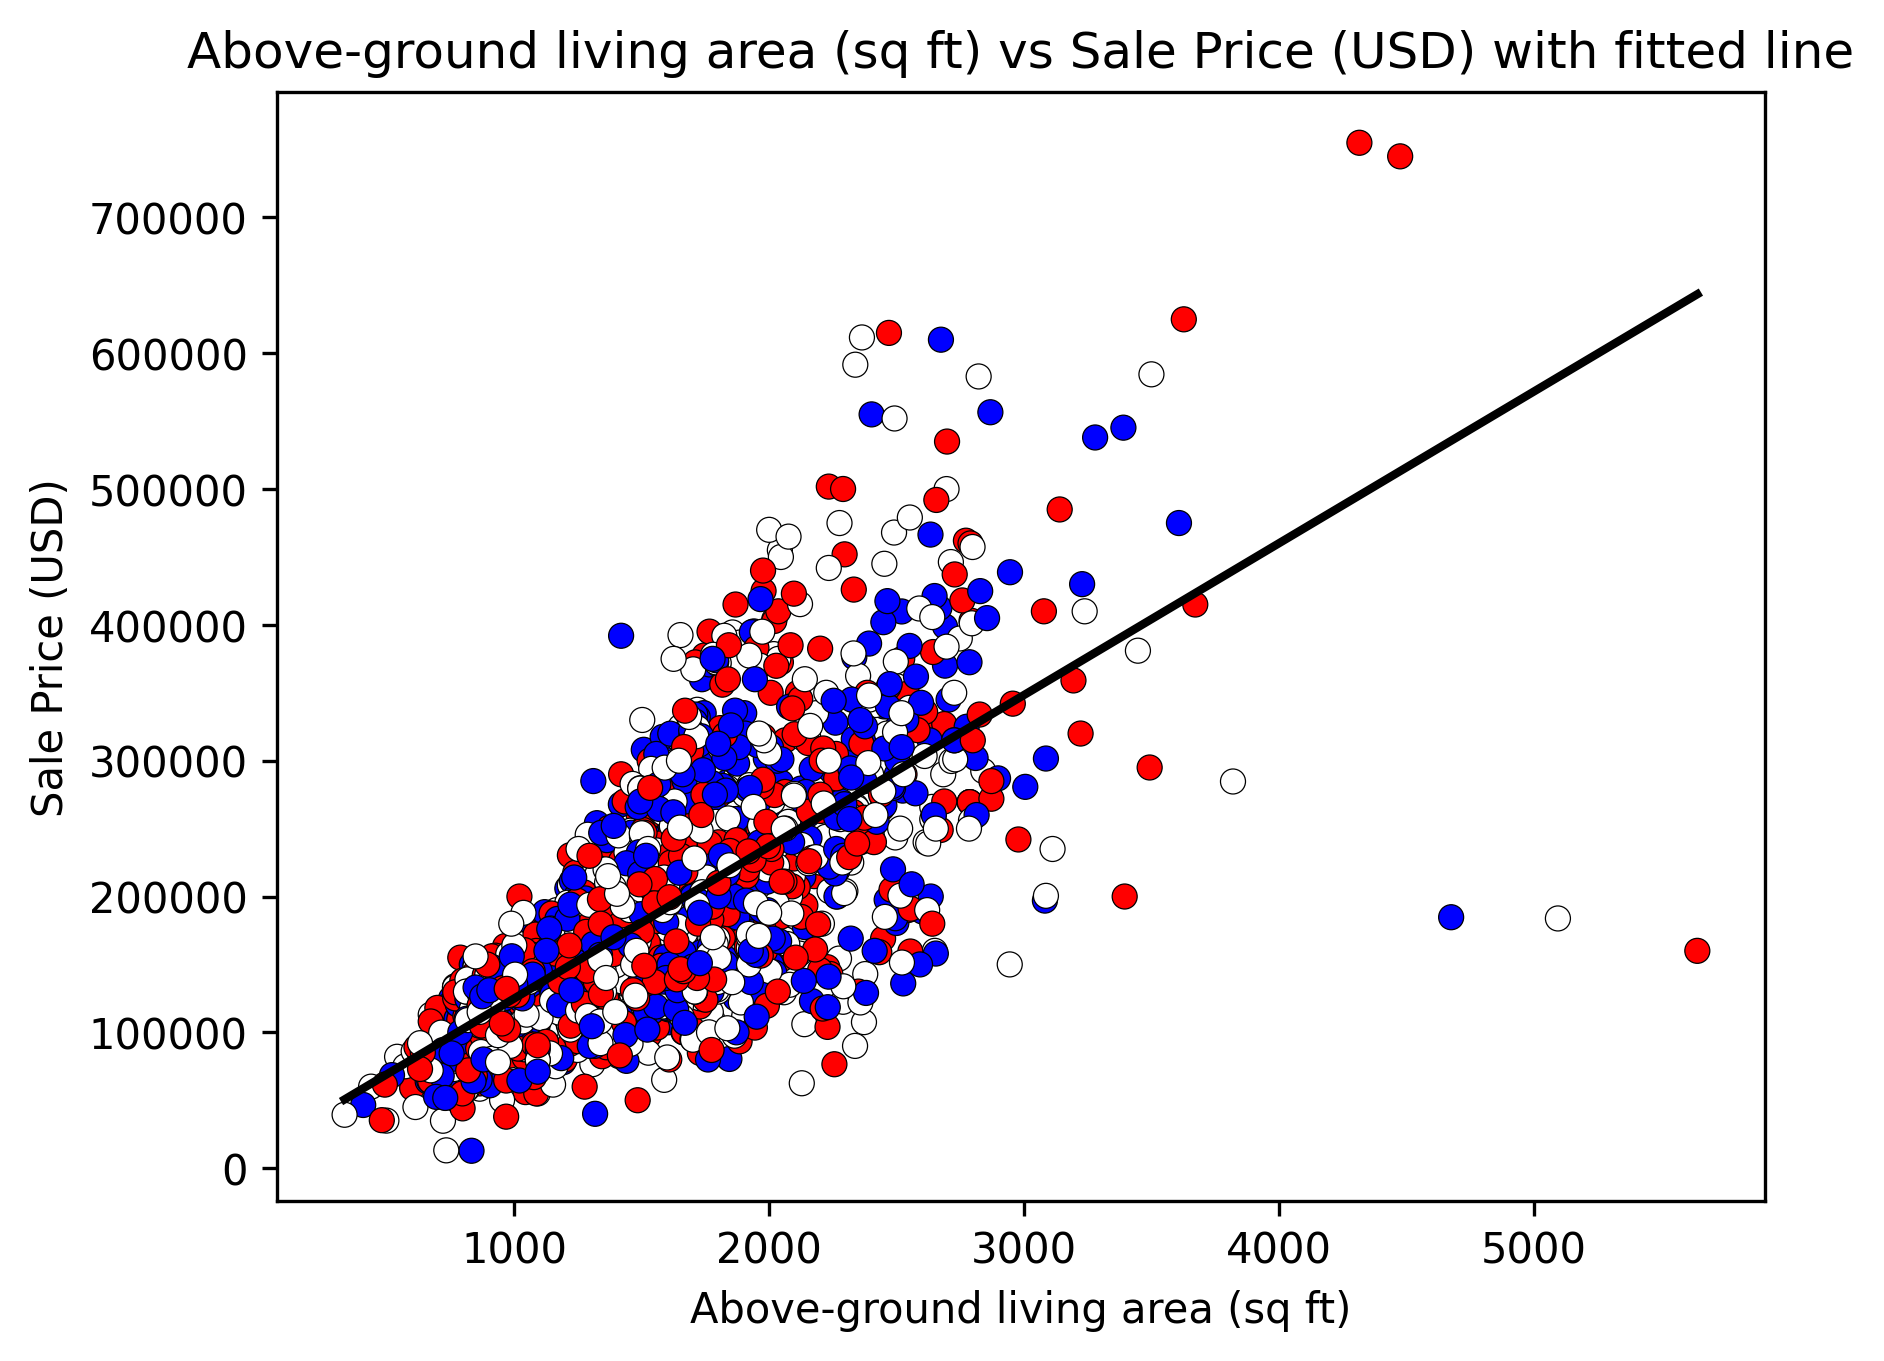
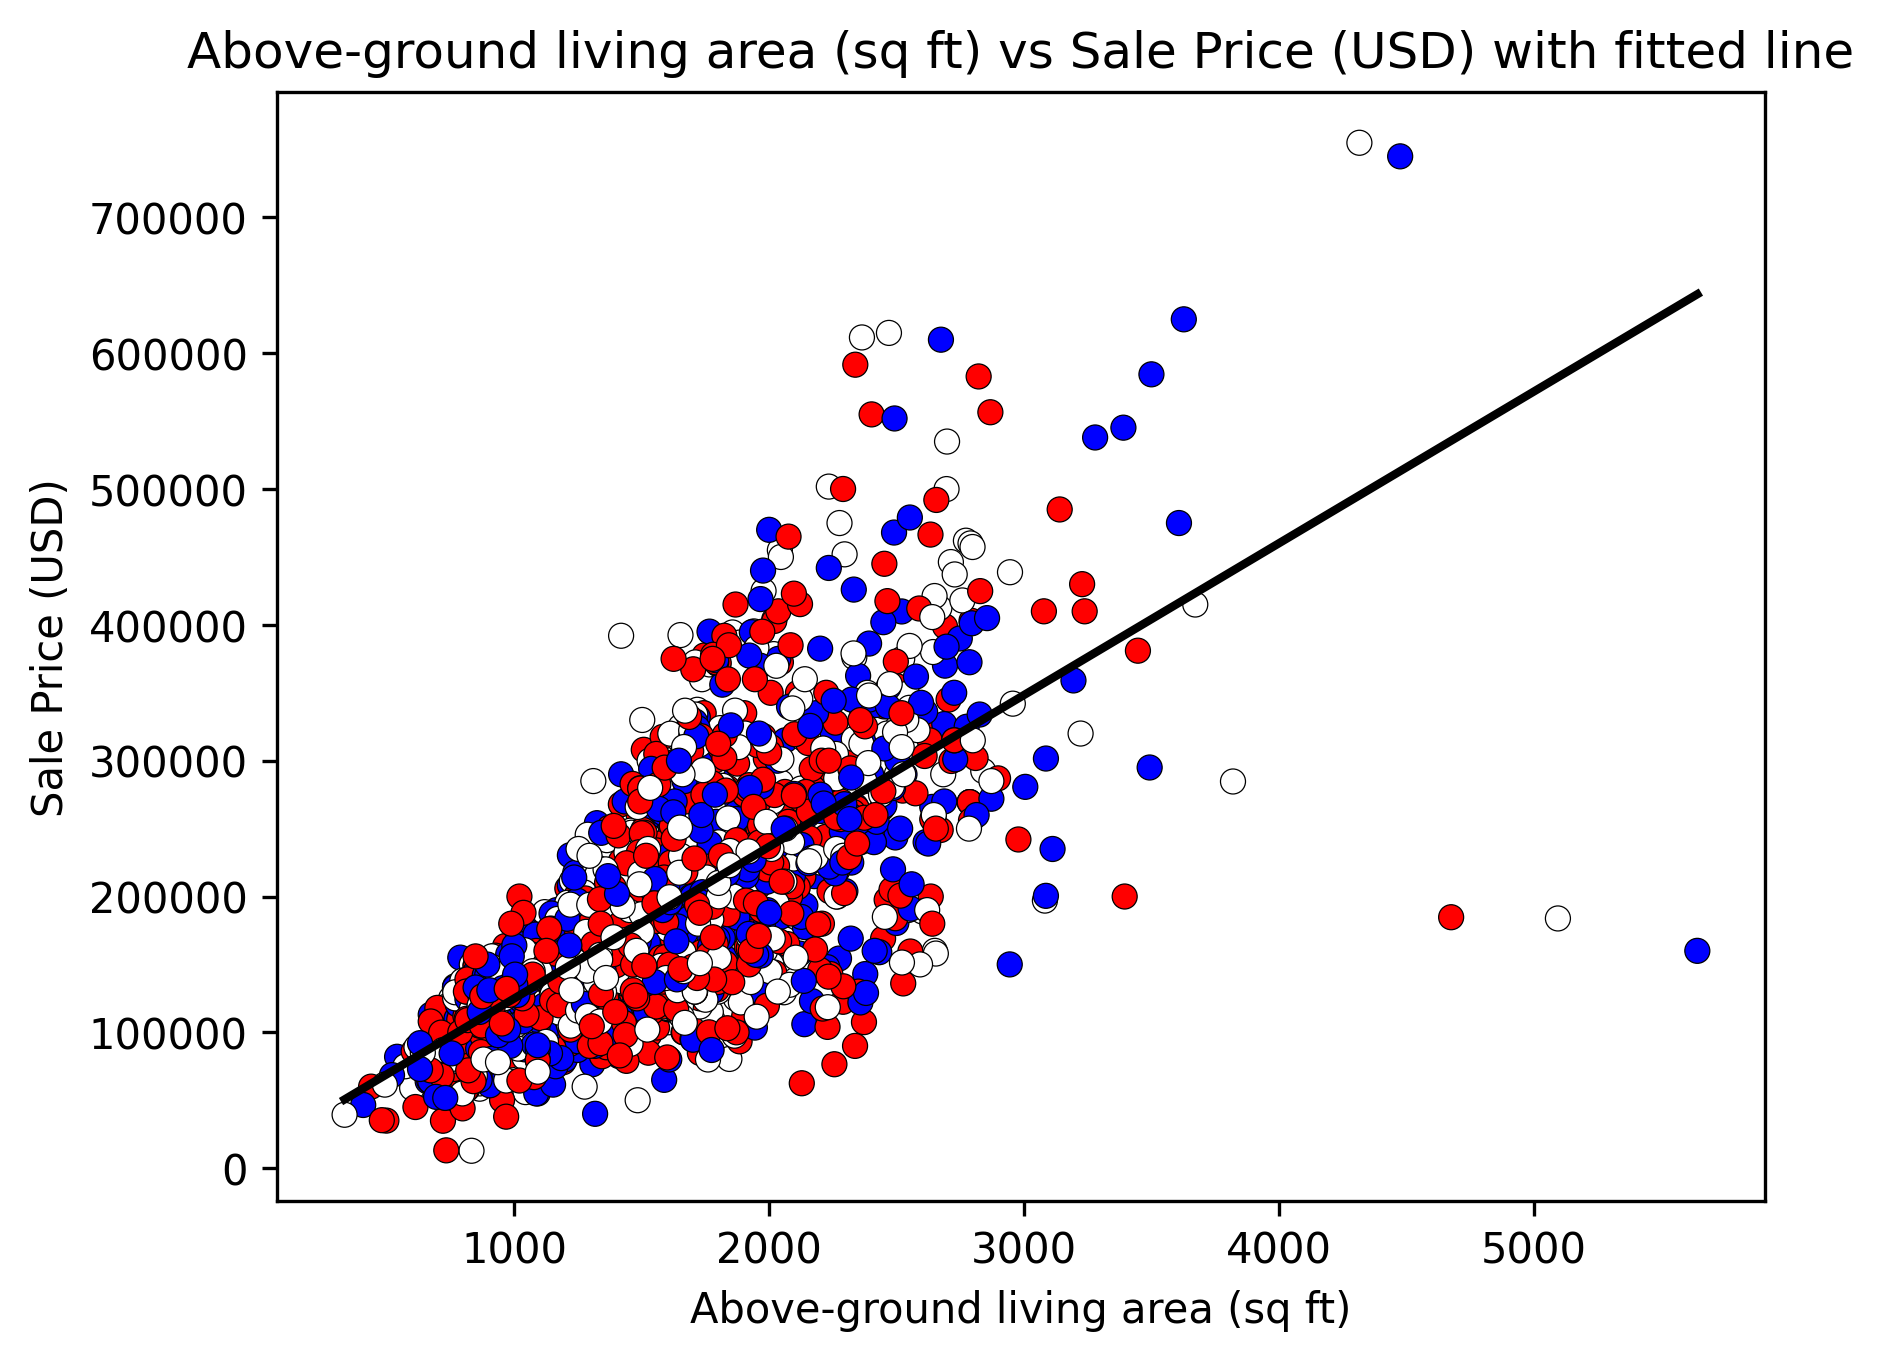
Update documentation and regression visuals

diff --git a/docs/index.md b/docs/index.md
@@ -1,6 +1,6 @@
 # 📚Project Documentation
 This project demonstrates how to apply simple linear regression to real‑world housing data.
-Using the Ames Housing dataset (≈2,930 homes), the project examines how individual home features relate to SalePrice.
+Using the Ames, Iowa Housing dataset (≈2,930 homes), the project examines how individual home features relate to SalePrice.
 
 ## 📈Regression 1: Gr Liv Area → SalePrice
 | Metric | Value | Interpretation |